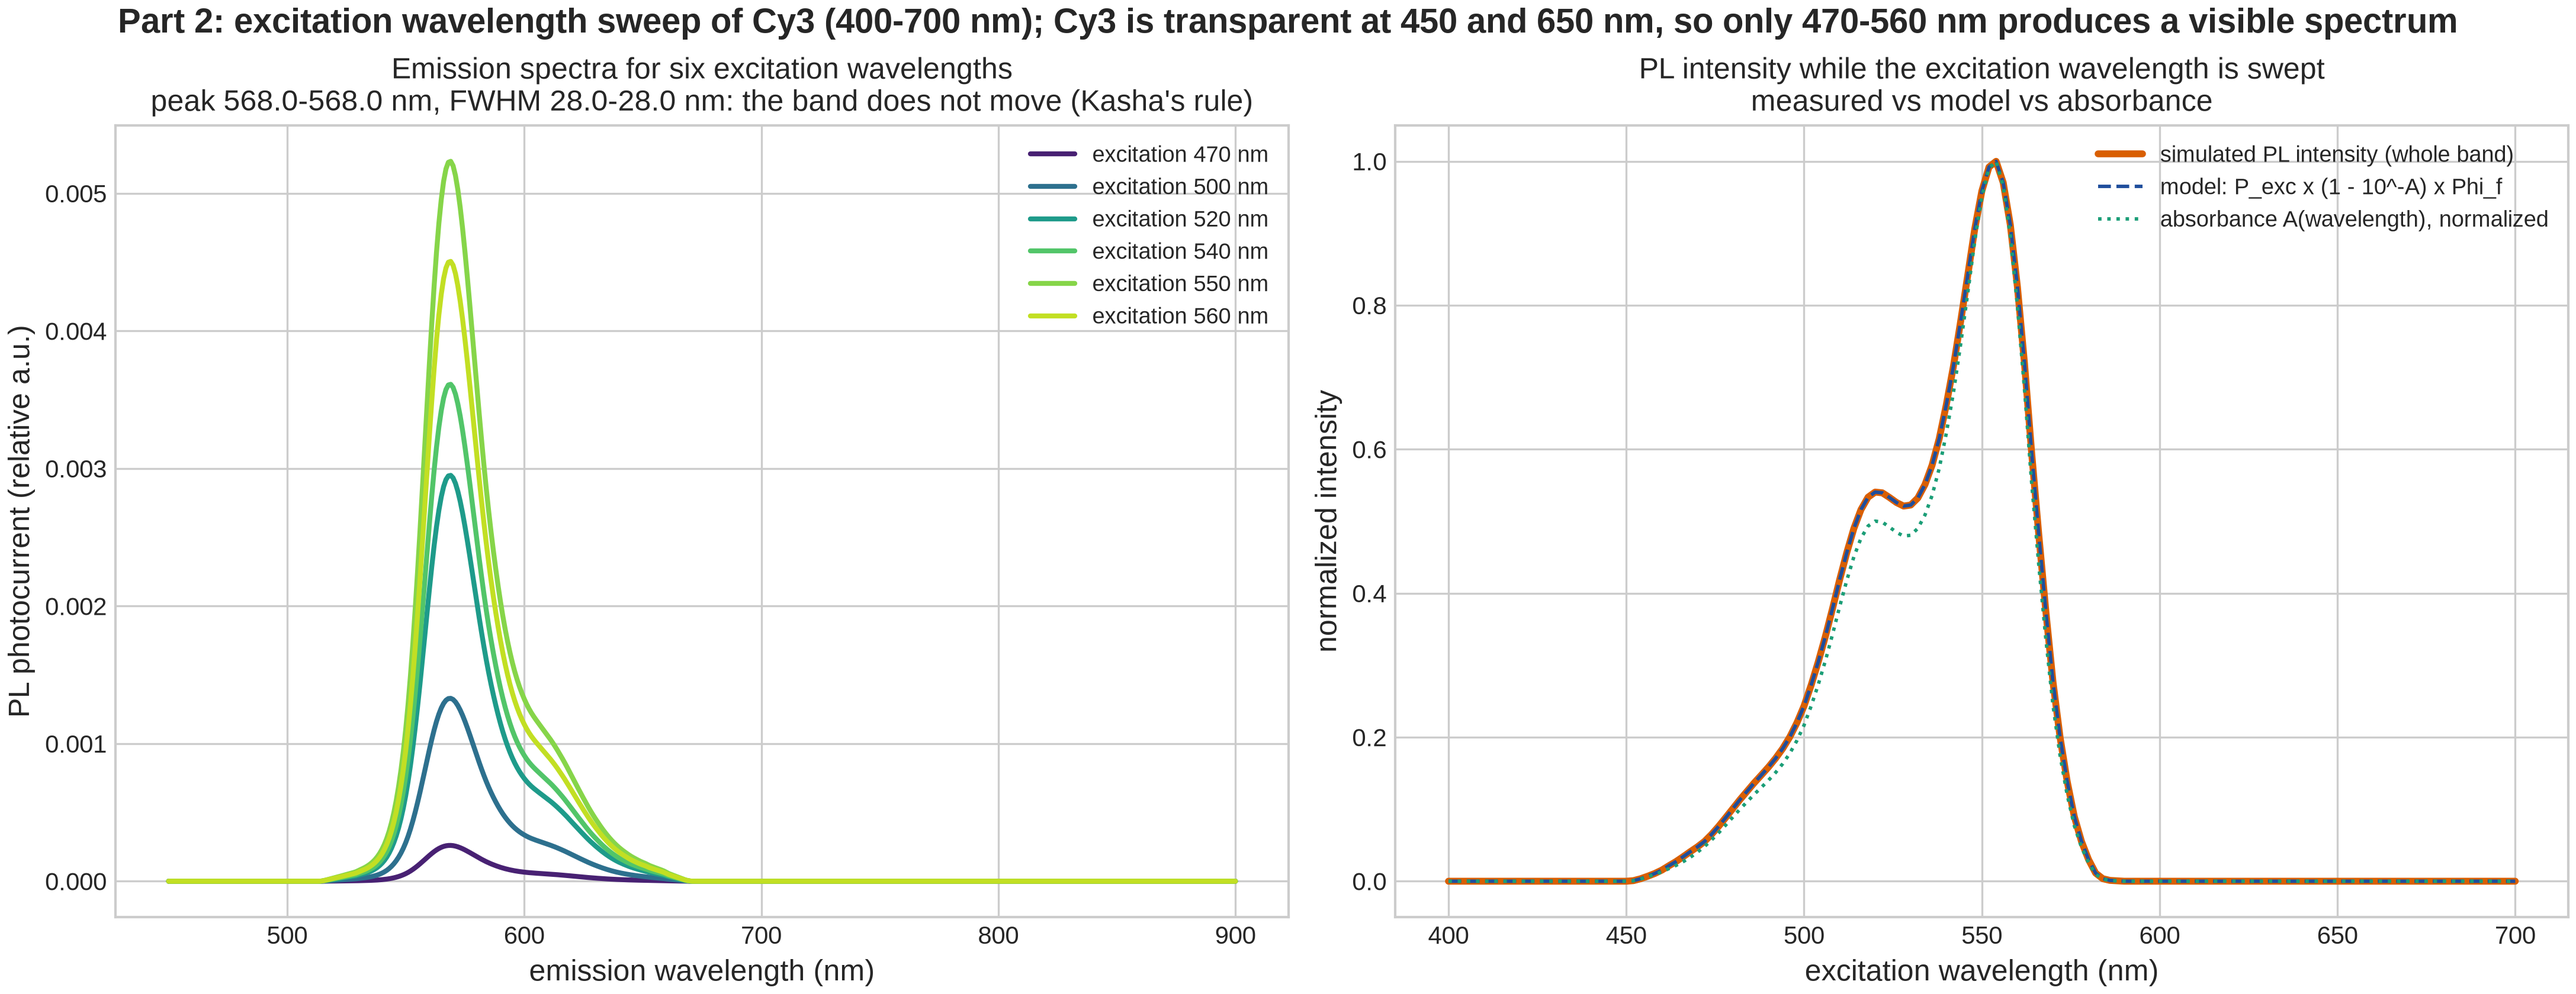
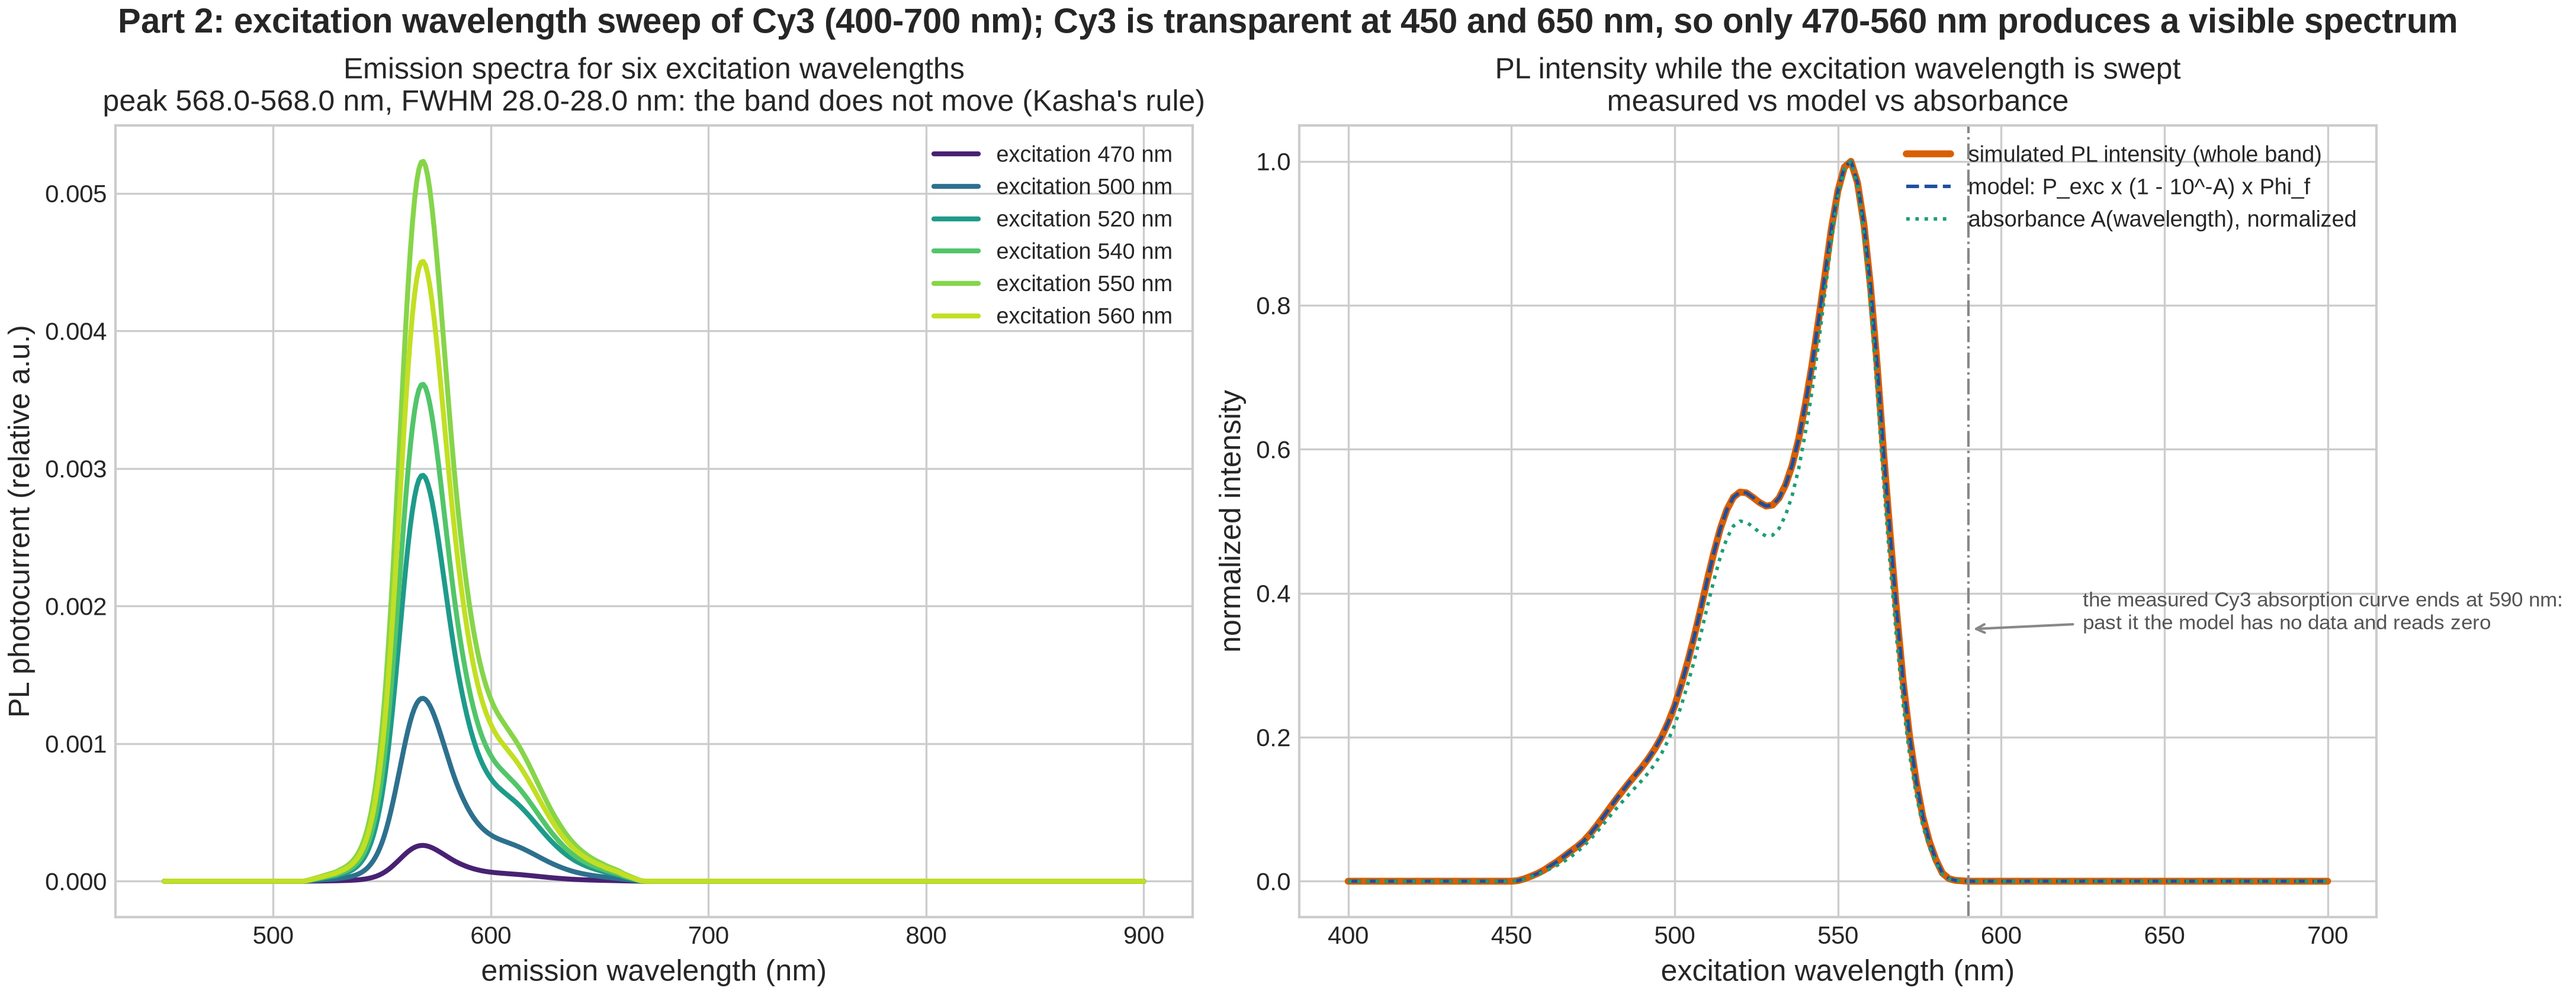
One place for the optical conditions; fix the label, title and data-range issues the re-audit found
- report/settings.py holds concentration, path length, stray level, detection range
  and the absorption data ranges; both generators import it. numbers.md said 0.5 %
  stray light while the figures used 0.1 %.
- part 3 legends quote A(lambda_exc) instead of the peak absorbance, which sat badly
  beside the annotation about the same dye absorbing nothing at 450 nm
- part 3 title no longer claims identical optical conditions when it omits stray light
- the overview legend states the stray level
- the question-2 panel marks where the measured absorption curve ends and says the
  zero beyond it is a data limit
- numbers.md states the grid sensitivity of the below-lambda_exc fraction
- TASK.md 5.5 lists the text the corrected figures now contradict

diff --git a/report/generate_assignment_figures.py b/report/generate_assignment_figures.py
@@ -31,23 +31,24 @@ from plsim.reference import DEFAULT_PATH, load_reference_database
 from plsim.samples import SAMPLE_DATABASE, with_concentration
 from plsim.spectrometer import PLSpectrometer
 
+sys.path.insert(0, str(Path(__file__).resolve().parent))
+from settings import (  # noqa: E402  (same directory, after sys.path)
+    ABSORPTION_RANGE_NM,
+    ASSIGNED_EXCITATION_NM,
+    CONCENTRATION_M,
+    DETECTION_RANGE_NM,
+    DYE_COLORS,
+    DYE_KEYS,
+    EXCITATION_START_NM,
+    EXCITATION_STEP_NM,
+    EXCITATION_STOP_NM,
+    OVERLAY_EXCITATION_NM,
+    PATH_LENGTH_CM,
+    SCATTER_FRACTION,
+    STRAY_COLOR,
+)
+
 FIG_DIR = Path(__file__).resolve().parent / "report_figures"
-
-CONCENTRATION_M = 1.0e-6
-PATH_LENGTH_CM = 1.0
-SCATTER_FRACTION = 0.001
-DETECTION_RANGE_NM = (450.0, 900.0)
-EXCITATION_START_NM = 400.0
-EXCITATION_STOP_NM = 700.0
-EXCITATION_STEP_NM = 2.0
-# Excitation wavelengths used in the overlay: Cy3 is transparent at 450 and 650 nm,
-# so those curves would be flat lines at zero and would only clutter the legend.
-OVERLAY_EXCITATION_NM = (470.0, 500.0, 520.0, 540.0, 550.0, 560.0)
-ASSIGNED_EXCITATION_NM = (450.0, 550.0, 650.0)
-
-DYE_KEYS = ["cy3", "cy5", "methylene-blue"]
-DYE_COLORS = {"cy3": "#d95f02", "cy5": "#7570b3", "methylene-blue": "#1b9e77"}
-STRAY_COLOR = "#c1440e"
 
 plt.style.use("seaborn-v0_8-whitegrid" if "seaborn-v0_8-whitegrid" in plt.style.available else "default")
 plt.rcParams.update({
@@ -133,7 +134,7 @@ def generate_part1(dyes):
         axis.plot(scan.wavelengths_nm, scan.photocurrent, color=DYE_COLORS[key], lw=2.2,
                   label="detected photocurrent")
         axis.plot(scan.wavelengths_nm, scan.scatter_photocurrent, color=STRAY_COLOR, lw=1.2, ls=":",
-                  label="stray excitation")
+                  label="stray excitation ({:g} % of excitation)".format(SCATTER_FRACTION * 100))
         axis.axvline(scan.lambda_exc_nm, color="gray", ls="--", alpha=0.7,
                      label="excitation {:.0f} nm".format(scan.lambda_exc_nm))
         axis.set_title("{}\nA({:.0f} nm) = {:.3f}, Phi_f = {:g}".format(
@@ -193,6 +194,12 @@ def generate_part2(dyes):
                label="absorbance A(wavelength), normalized")
     right.set_title("PL intensity while the excitation wavelength is swept\n"
                     "measured vs model vs absorbance")
+    right.axvline(ABSORPTION_RANGE_NM["cy3"][1], color="#888888", lw=1.0, ls="-.")
+    right.annotate("the measured Cy3 absorption curve ends at {:.0f} nm:\n"
+                   "past it the model has no data and reads zero".format(ABSORPTION_RANGE_NM["cy3"][1]),
+                   xy=(ABSORPTION_RANGE_NM["cy3"][1], 0.35), xytext=(ABSORPTION_RANGE_NM["cy3"][1] + 35.0, 0.35),
+                   fontsize=8.5, color="#555555",
+                   arrowprops=dict(arrowstyle="->", color="#888888", lw=1.0))
     right.set_xlabel("excitation wavelength (nm)")
     right.set_ylabel("normalized intensity")
     right.legend(loc="upper right")
@@ -242,7 +249,8 @@ def generate_part3(dyes):
             dye = dyes[key]
             scan = scans[(lambda_exc, key)]
             axis.plot(scan.wavelengths_nm, scan.photocurrent, color=DYE_COLORS[key], lw=2.0,
-                      label="{} (A = {:.3f})".format(dye.name, dye.peak_absorbance))
+                      label="{} (A({:.0f} nm) = {:.3f})".format(
+                          dye.name, lambda_exc, dye.absorbance(lambda_exc)))
         axis.axvline(lambda_exc, color="black", ls="--", alpha=0.5)
         axis.set_title("excitation {:.0f} nm".format(lambda_exc))
         axis.set_xlabel("wavelength (nm)")
@@ -260,7 +268,8 @@ def generate_part3(dyes):
                       bbox=dict(boxstyle="round", fc="white", ec="#bbbbbb"))
     axes[0].set_ylabel("photodetector current (relative a.u., shared scale)")
     figure.suptitle("Part 3: emission spectra of the three dyes at the same concentration "
-                    "({:.0f} nM in 1 cm), identical optical conditions".format(CONCENTRATION_M * 1e9),
+                    "({:.0f} nM in 1 cm) and the same path length; stray light is left out of "
+                    "these panels so the dyes can be compared".format(CONCENTRATION_M * 1e9),
                     fontweight="bold")
     figure.savefig(FIG_DIR / "part3_three_dyes_comparison.png", dpi=300)
     plt.close(figure)
@@ -279,7 +288,7 @@ def generate_part3(dyes):
                       ls=style, label="{} at {:.0f} nm".format(dye.name, lambda_exc))
             heights.append("{} at {:.0f} nm: peak {:.4f}".format(dye.name, lambda_exc, scan.photocurrent.max()))
     axis.set_title("Part 3: all nine spectra on one canvas\nsame concentration, three excitation "
-                   "wavelengths (the four visible peaks are the whole answer)")
+                   "wavelengths; the peak current of every curve is printed on the right")
     axis.set_xlabel("wavelength (nm)")
     axis.set_ylabel("photodetector current (relative a.u.)")
     axis.legend(loc="upper right", fontsize=8.5)

diff --git a/report/generate_numbers.py b/report/generate_numbers.py
@@ -20,13 +20,17 @@ from plsim.reference import DEFAULT_PATH, load_reference_database
 from plsim.samples import SAMPLE_DATABASE, with_concentration
 from plsim.spectrometer import PLSpectrometer
 
-OUTPUT = Path(__file__).resolve().parent / "numbers.md"
+sys.path.insert(0, str(Path(__file__).resolve().parent))
+from settings import (  # noqa: E402  (same directory, after sys.path)
+    ASSIGNED_EXCITATION_NM,
+    CONCENTRATION_M,
+    DETECTION_RANGE_NM,
+    DYE_KEYS,
+    PATH_LENGTH_CM,
+    SCATTER_FRACTION,
+)
 
-CONCENTRATION_M = 1.0e-6
-PATH_LENGTH_CM = 1.0
-DETECTION_RANGE_NM = (450.0, 900.0)
-ASSIGNED_EXCITATION_NM = (450.0, 550.0, 650.0)
-DYE_KEYS = ["cy3", "cy5", "methylene-blue"]
+OUTPUT = Path(__file__).resolve().parent / "numbers.md"
 
 # Second-opinion verification of 2026-10-18 (see data/SOURCES.md, section
 # "Second opinion"): the five numbers the report must not get wrong.
@@ -198,6 +202,26 @@ def build(database_choice="reference"):
         add("| {} | {:.0f} nm | {:.2%} | {:.1%} |".format(
             dye.name, lambda_exc, fraction, stray_ratio))
     add("")
+    grid_fractions = {}
+    for step in (1.0, 0.5, 0.1):
+        values = []
+        for key in DYE_KEYS:
+            dye = dyes[key]
+            scan = PLSpectrometer(sample=dye, scatter_fraction=0.0).acquire(
+                lambda_exc_nm=absorption_maximum_nm(key), lambda_min_nm=DETECTION_RANGE_NM[0],
+                lambda_max_nm=DETECTION_RANGE_NM[1], dlambda_nm=step)
+            band = scan.emitted_photocurrent
+            below = scan.wavelengths_nm < absorption_maximum_nm(key)
+            values.append(float(np.trapezoid(band[below], scan.wavelengths_nm[below])
+                                / np.trapezoid(band, scan.wavelengths_nm)))
+        grid_fractions["{} nm".format(step)] = values
+    add("That fraction is a numerical integral, so it moves with the integration grid: "
+        + "; ".join(
+            "{}: {}".format(step, " / ".join("{:.2%}".format(v) for v in values))
+            for step, values in grid_fractions.items()
+        )
+        + " (Cy3 / Cy5 / methylene blue). Quote it as \"a few per cent\", not as a measured number.")
+    add("")
     add("The stray-light figure is a model input, not a measurement: the report figures use 0.1 % "
         "of the excitation power, which is what a double monochromator with a harmonic filter is "
         "expected to leave. With a single monochromator it would be far larger, and methylene blue "
@@ -251,7 +275,8 @@ def build(database_choice="reference"):
     add("| excitation monochromator bandwidth | {:.0f} nm |".format(lamp.monochromator.bandwidth_nm))
     add("| detection monochromator bandwidth | {:.0f} nm |".format(instrument.detection_monochromator.bandwidth_nm))
     add("| harmonic filter | passes above {:.0f} nm, blocks below |".format(lamp.harmonic_filter.cutoff_nm))
-    add("| stray excitation light | {:.1%} of the excitation power reaches the detector |".format(0.005))
+    add("| stray excitation light | {:.1%} of the excitation power reaches the detector |".format(
+        SCATTER_FRACTION))
     for lambda_exc in (450.0, 550.0, 650.0, 700.0):
         add("| relative xenon lamp power at {:.0f} nm | {:.4g} |".format(lambda_exc, lamp.power_at(lambda_exc)))
     for wavelength in (570.0, 670.0, 686.0):

diff --git a/report/settings.py b/report/settings.py
@@ -1,0 +1,34 @@
+"""
+The optical conditions shared by every figure and every number in the report.
+
+They live here, in one place, because they were once written twice: the figures
+used 0.1 % stray light while the instrument table in `numbers.md` still said
+0.5 %, which would have put a wrong number in the report's own text.
+"""
+
+from pathlib import Path
+
+REPO_ROOT = Path(__file__).resolve().parent.parent
+
+CONCENTRATION_M = 1.0e-6
+PATH_LENGTH_CM = 1.0
+SCATTER_FRACTION = 0.001
+DETECTION_RANGE_NM = (450.0, 900.0)
+
+EXCITATION_START_NM = 400.0
+EXCITATION_STOP_NM = 700.0
+EXCITATION_STEP_NM = 2.0
+
+# Cy3 is transparent at 450 and 650 nm, so those curves would be flat lines at
+# zero and would only clutter the question-2 legend.
+OVERLAY_EXCITATION_NM = (470.0, 500.0, 520.0, 540.0, 550.0, 560.0)
+ASSIGNED_EXCITATION_NM = (450.0, 550.0, 650.0)
+
+DYE_KEYS = ["cy3", "cy5", "methylene-blue"]
+DYE_COLORS = {"cy3": "#d95f02", "cy5": "#7570b3", "methylene-blue": "#1b9e77"}
+STRAY_COLOR = "#c1440e"
+
+# The digitized absorption curves stop where they were measured. Beyond that the
+# model has no data and reads zero absorption, which is a limit of the data, not
+# physics: Cy3's absorption is small but non-zero past 590 nm in reality.
+ABSORPTION_RANGE_NM = {"cy3": (450.0, 590.0), "cy5": (430.0, 734.0), "methylene-blue": (300.0, 800.0)}

diff --git a/TASK.md b/TASK.md
@@ -257,6 +257,22 @@ For the sample-database values themselves:
     PhotochemCAD, OMLC, ACS Omega 2020), not [3] or [4].
 ```
 
+### 5.5 Text in the draft that the corrected figures now contradict
+
+Found by re-reading the draft against the regenerated figures and `numbers.md`.
+These are report-phase edits; the list exists so none of them is missed.
+
+| draft text | what the figures/data show now |
+| --- | --- |
+| Figure 2 caption: "varying excitation wavelengths (450–610 nm)" | the overlay draws six curves, 470–560 nm (450/600/650 nm produce no spectrum because Cy3 does not absorb there) |
+| "the emission peak remains strictly anchored at 570 nm" | the simulated peak is 568.0 nm (the digitized curve peaks there; the vendors' 570 nm is the quoted maximum) |
+| "bandwidth (FWHM ≈ 32 nm)" | 28.0 nm measured on the simulated band; 28.6 nm on the raw curve. 32 nm is in no source |
+| "monitoring the full detection window (500–750 nm)" | the figures use 450–900 nm, wide enough to hold the whole emission band |
+| "Cy5 … approximately 7 times more intense than Methylene Blue" | at 650 nm the figure shows 0.0682 vs 0.0014, about 49 times; per absorbed photon it is about 14 times (Φf 0.28 vs 0.02). The 7 in the draft matches neither |
+| "emission is strictly zero at λexc ≥ 620 nm because hν ≤ 2.0 eV falls below the 0-0 gap" | the simulated absorption and therefore the emission go to exactly zero at 590 nm, where the **measured absorption curve ends**; that is a limit of the data, not a physical threshold. The figure now marks this on the axis, and the text must not dress it up as an energy-gap argument |
+| "identical peak optical density / concentration" | the figures now run at equal *concentration*, giving peak absorbances 0.150 / 0.250 / 0.067 — say that |
+| any "A = 0.150" for a curve excited at 550 nm | the figure titles distinguish A(λexc) = 0.143 from A_peak = 0.150 |
+
 ### 5.3 Other audit findings
 
 - **[5] and [6] are never cited in the body**, only listed. Cite them where they

diff --git a/report/numbers.md b/report/numbers.md
@@ -55,6 +55,8 @@ The emission band is the measured one: the model applies no extra suppression to
 | Cy5 | 649 nm | 9.21% | 0.4% |
 | Methylene blue | 664 nm | 7.94% | 15.8% |
 
+That fraction is a numerical integral, so it moves with the integration grid: 1.0 nm: 3.21% / 8.22% / 7.26%; 0.5 nm: 3.71% / 9.21% / 7.94%; 0.1 nm: 3.88% / 9.52% / 8.15% (Cy3 / Cy5 / methylene blue). Quote it as "a few per cent", not as a measured number.
+
 The stray-light figure is a model input, not a measurement: the report figures use 0.1 % of the excitation power, which is what a double monochromator with a harmonic filter is expected to leave. With a single monochromator it would be far larger, and methylene blue at 1 umol/L is dim enough that stray light would then dominate its spectrum.
 
 Peak wavelengths are read off the scan on the step-size grid after the detection passband, so they can differ from the tabulated curve peak by about one step (methylene blue reads 685.5 nm on a 0.5 nm grid and 686 nm on a 1 nm grid; the curve itself peaks at 685.0 nm). That is the instrument, not an inconsistency.
@@ -84,7 +86,7 @@ Kasha's rule, measured on the simulated band (Cy3, excitation swept inside the a
 | excitation monochromator bandwidth | 5 nm |
 | detection monochromator bandwidth | 2 nm |
 | harmonic filter | passes above 400 nm, blocks below |
-| stray excitation light | 0.5% of the excitation power reaches the detector |
+| stray excitation light | 0.1% of the excitation power reaches the detector |
 | relative xenon lamp power at 450 nm | 2.634 |
 | relative xenon lamp power at 550 nm | 2.661 |
 | relative xenon lamp power at 650 nm | 2.515 |
